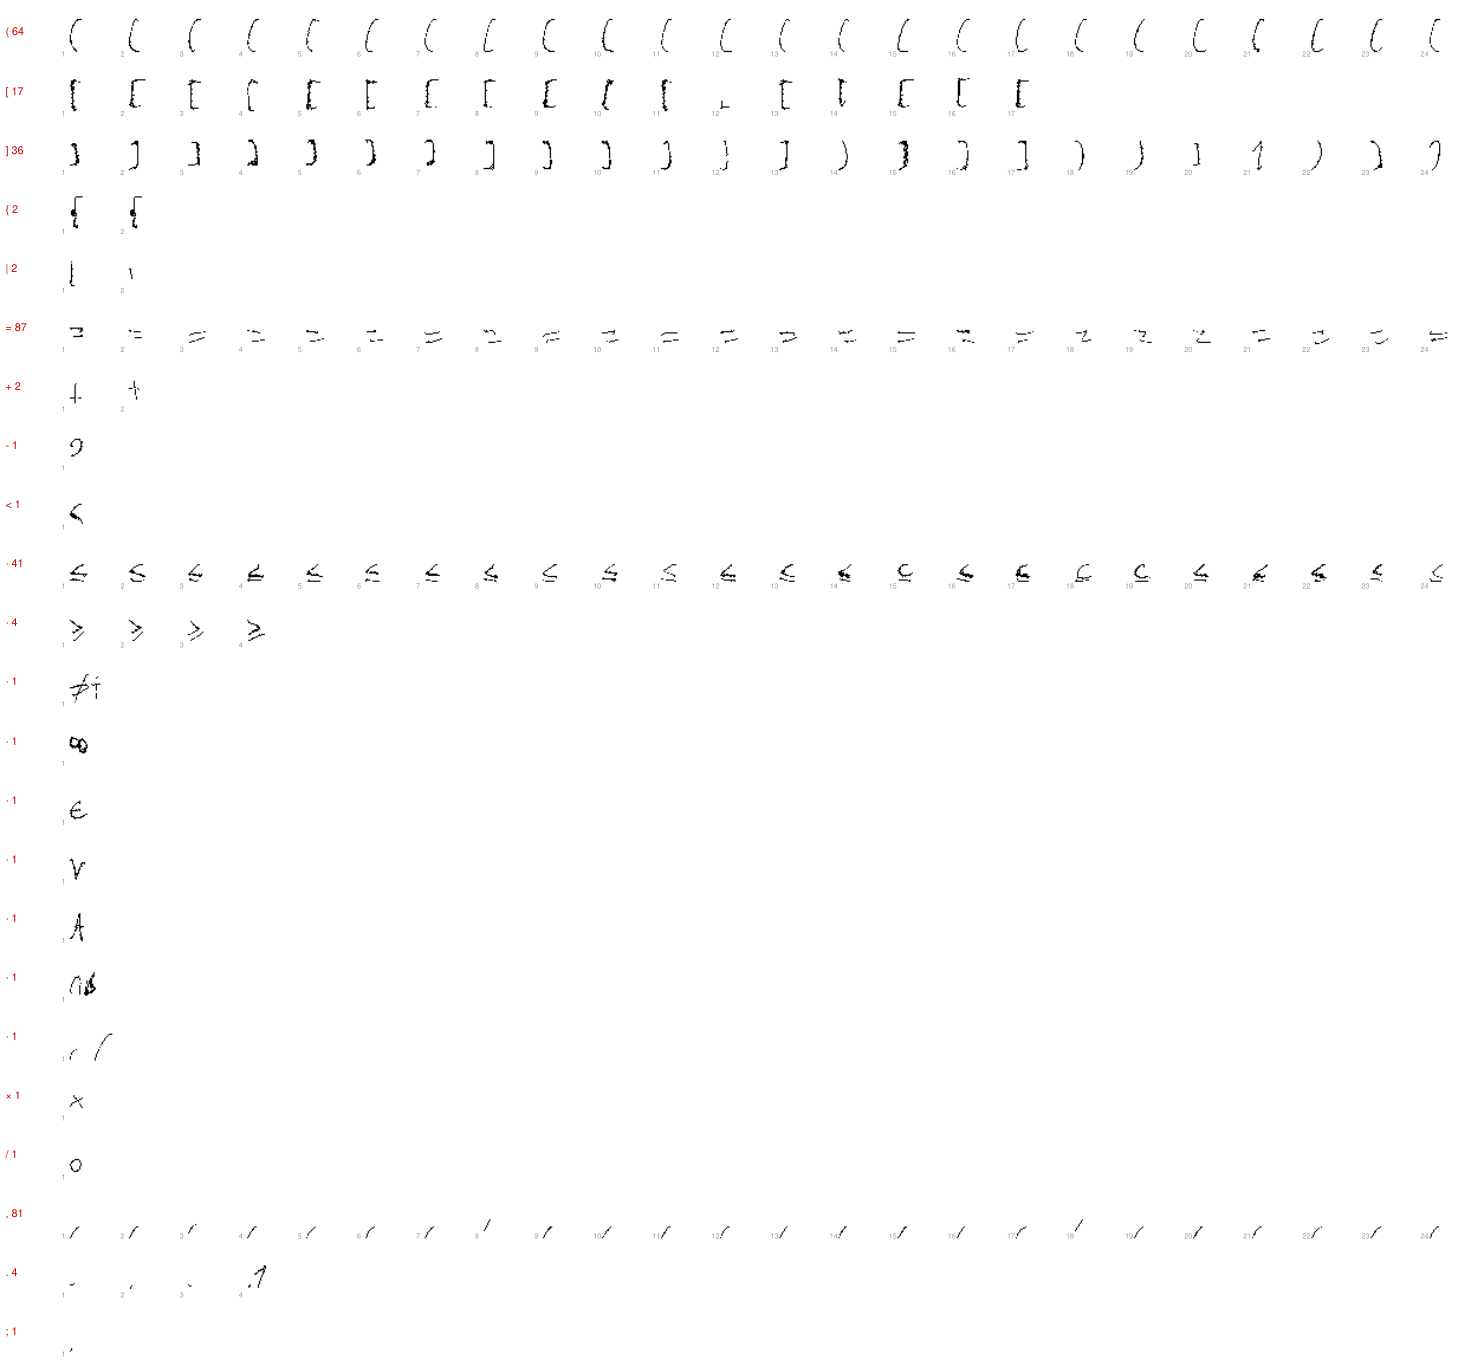
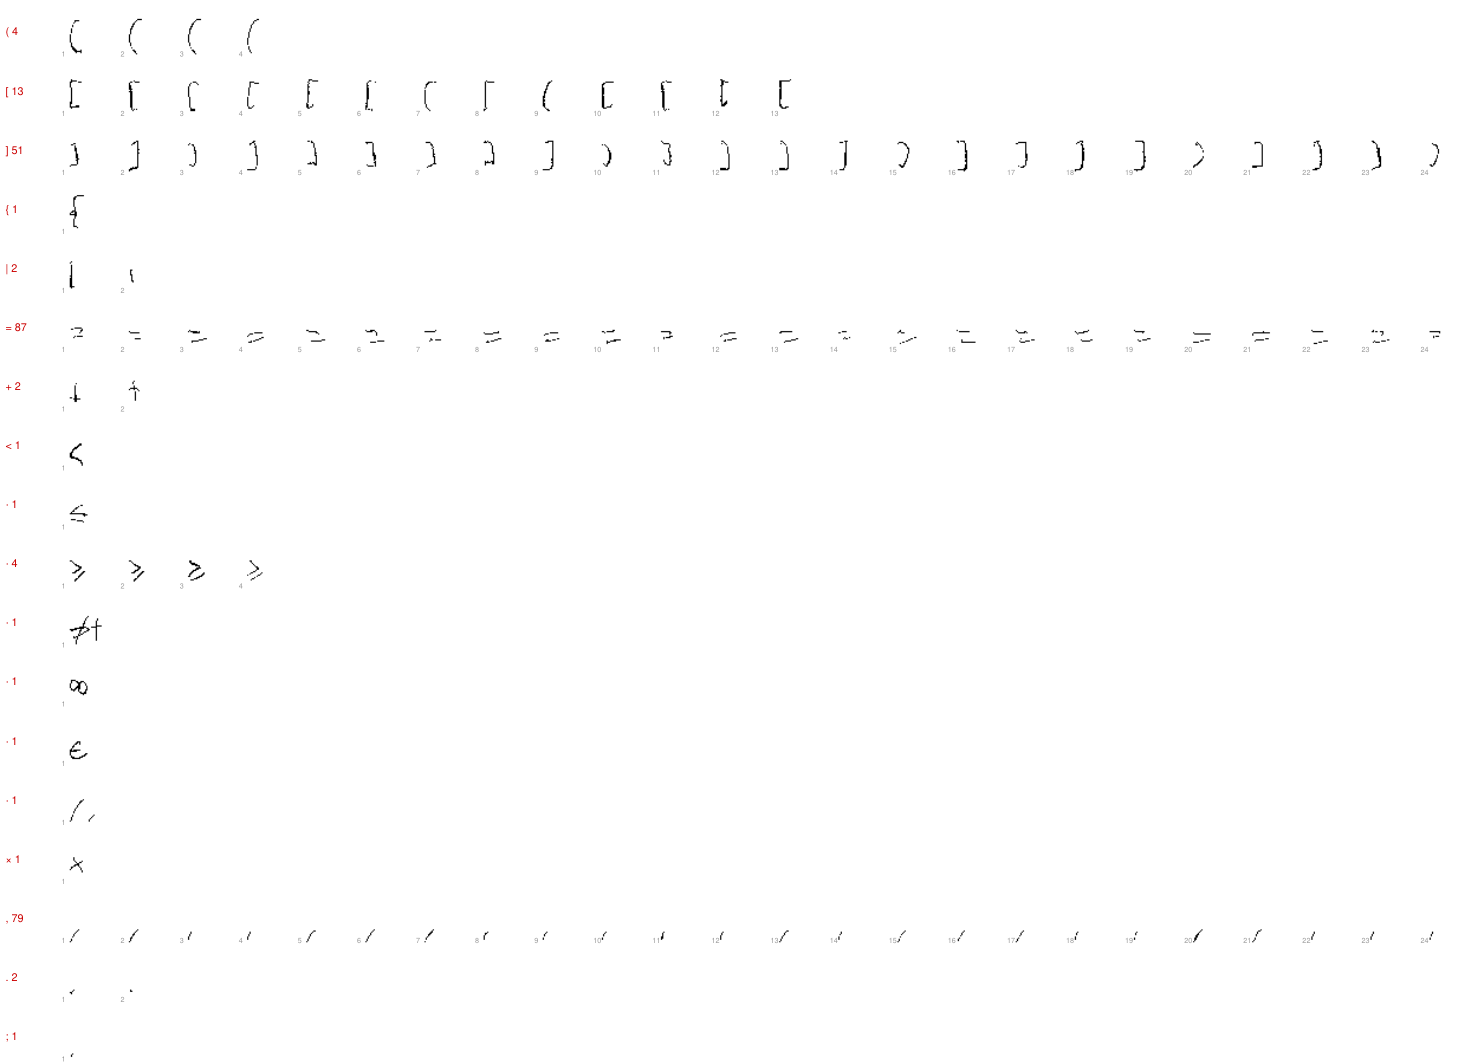
Second curation pass after extractor rewrite; lowercase x, H and D composed from the writer's own parts; harvested 7/9 dropped

diff --git a/inkclone/augment.py b/inkclone/augment.py
@@ -124,3 +124,38 @@ def compose_x(halves, rng):
     return {"text": "X", "pieces": pieces, "width": float(allq[:, 0].max()), "height": float(allq[:, 1].max() - allq[:, 1].min()),
             "src": ("composed", a.get("src"), b.get("src")), "synthetic": True, "whole": True, "score": 0.1,
             "slant": a.get("slant"), "pen": a.get("pen"), "joined_prev": False, "joined_next": False}
+
+
+def _stem(l_inst, top, bottom):
+    """a vertical stroke taken from a lowercase l, scaled to span [top, bottom] (xh units)."""
+    p = max(l_inst["pieces"], key=len).copy()
+    if p[0, 1] > p[-1, 1]: p = p[::-1]
+    y0, y1 = p[:, 1].min(), p[:, 1].max(); p[:, 1] = top + (p[:, 1] - y0) / max(y1 - y0, 1e-6) * (bottom - top)
+    p[:, 0] -= p[:, 0].mean(); return p
+
+
+def compose_H(l_pool, eq_pool, rng):
+    top, bot = rng.uniform(-2.1, -1.8), rng.uniform(0.0, 0.1)
+    a, b = _stem(rng.choice(l_pool), top, bot), _stem(rng.choice(l_pool), top, bot)
+    gap = rng.uniform(1.0, 1.3); a[:, 0] += 0; b[:, 0] += gap
+    bar = max(rng.choice(eq_pool)["pieces"], key=len).copy(); bar[:, 0] = (bar[:, 0] - bar[:, 0].min()) / max(np.ptp(bar[:, 0]), 1e-6) * (gap + 0.2) - 0.1
+    bar[:, 1] = bar[:, 1] - bar[:, 1].mean() + (top + bot) / 2 + rng.uniform(-0.15, 0.15)
+    pieces = [a, b, bar]; x0 = min(p[:, 0].min() for p in pieces)
+    for p in pieces: p[:, 0] -= x0
+    allq = np.vstack([p[:, :2] for p in pieces])
+    return {"text": "H", "pieces": pieces, "width": float(allq[:, 0].max()), "height": float(np.ptp(allq[:, 1])), "src": ("composed", "H"),
+            "synthetic": True, "whole": True, "score": 0.1, "slant": -4.0, "pen": float(np.median(a[:, 2])), "joined_prev": False, "joined_next": False}
+
+
+def compose_D(l_pool, paren_pool, rng):
+    top, bot = rng.uniform(-2.1, -1.8), rng.uniform(0.0, 0.1)
+    stem = _stem(rng.choice(l_pool), top, bot)
+    bowl = max(rng.choice(paren_pool)["pieces"], key=len).copy()
+    bowl[:, 0] = -bowl[:, 0]  # '(' mirrored -> ')'
+    y0, y1 = bowl[:, 1].min(), bowl[:, 1].max(); bowl[:, 1] = top + (bowl[:, 1] - y0) / max(y1 - y0, 1e-6) * (bot - top)
+    bowl[:, 0] = (bowl[:, 0] - bowl[:, 0].min()) * rng.uniform(1.4, 1.8) / max(np.ptp(bowl[:, 0]), 1e-6) + 0.05
+    pieces = [stem, bowl]; x0 = min(p[:, 0].min() for p in pieces)
+    for p in pieces: p[:, 0] -= x0
+    allq = np.vstack([p[:, :2] for p in pieces])
+    return {"text": "D", "pieces": pieces, "width": float(allq[:, 0].max()), "height": float(np.ptp(allq[:, 1])), "src": ("composed", "D"),
+            "synthetic": True, "whole": True, "score": 0.1, "slant": -4.0, "pen": float(np.median(stem[:, 2])), "joined_prev": False, "joined_next": False}

diff --git a/inkclone/units.py b/inkclone/units.py
@@ -198,12 +198,26 @@ def build(words, segs, drop_frac=0.3, min_for_filter=20):
     from .augment import augment_bank
     import random as _random
     # letters with no usable real seed are composed from the writer's own parts (j = i + g's descender)
-    from .augment import compose_j, compose_x
+    from .augment import compose_j, compose_x, compose_H, compose_D
     rj = _random.Random(3)
-    if len(L.get("X", [])) < 3:
-        halves = [u for u in pre_block.get("X", []) if len(u["pieces"]) == 1]
-        xs = [x for x in (compose_x(halves, rj) for _ in range(12)) if x]
-        if xs: L["X"] = xs
+    for xc in "Xx":
+        halves = [u for u in pre_block.get(xc, []) if len(u["pieces"]) == 1]
+        if len([u for u in L.get(xc, []) if len(u["pieces"]) >= 2]) < 3 and len(halves) >= 2:
+            xs = [x for x in (compose_x(halves, rj) for _ in range(12)) if x]
+            if xs:
+                for x in xs:
+                    x["text"] = xc
+                    if xc == "x":  # lowercase: squash to x-height
+                        for p_ in x["pieces"]: p_[:, 1] *= 0.5; p_[:, :2] *= 1.0
+                        x["height"] = float(np.ptp(np.concatenate([p_[:, 1] for p_ in x["pieces"]])))
+                L[xc] = xs
+    l_pool = [u for u in L.get("l", []) if u.get("whole") and len(u["pieces"]) == 1 and not u.get("synthetic")]
+    eq_pool = [u for u in L.get("t", []) if not u.get("synthetic")]  # the t's crossbar donor list is replaced below if '=' is available
+    try:
+        import pickle as _pk; _S = _pk.load(open("data/derived/symbols.pkl", "rb")); eq_pool = [u for u in _S.get("=", []) if len(u["pieces"]) == 2] or eq_pool; paren_pool = [u for u in _S.get("(", []) if len(u["pieces"]) == 1]
+    except Exception: paren_pool = []
+    if len(L.get("H", [])) < 3 and l_pool and eq_pool: L["H"] = [compose_H(l_pool, eq_pool, rj) for _ in range(10)]
+    if len(L.get("D", [])) < 3 and l_pool and paren_pool: L["D"] = [compose_D(l_pool, paren_pool, rj) for _ in range(10)]
     if len(L.get("j", [])) < 3:
         i_pool = [u for u in L.get("i", []) if u.get("whole") and len(u["pieces"]) == 2 and not u.get("synthetic")]
         g_pool = [u for u in L.get("g", []) if not u.get("synthetic")] + [u for u in L.get("y", []) if not u.get("synthetic")]

diff --git a/inkclone/symbols_merge.py b/inkclone/symbols_merge.py
@@ -21,6 +21,10 @@ if __name__ == "__main__":
         for c in list(out):
             out[c] = [u for u in out[c] if tuple(u["src"]) + (None,) not in block]
             if not out[c]: del out[c]
+    # parentheses and brackets are tall and narrow; a wide '(' reads as a C
+    for c in "()[]":
+        if c in out:
+            out[c] = [u for u in out[c] if u["width"] / max(u["height"], 1e-6) <= 0.42] or out[c]
     for bad in ("4", "5", "6"):  # sheet instances for these are mislabeled or too few; better a gap than a wrong digit
         out.pop(bad, None)
     from inkclone.augment import augment_bank
